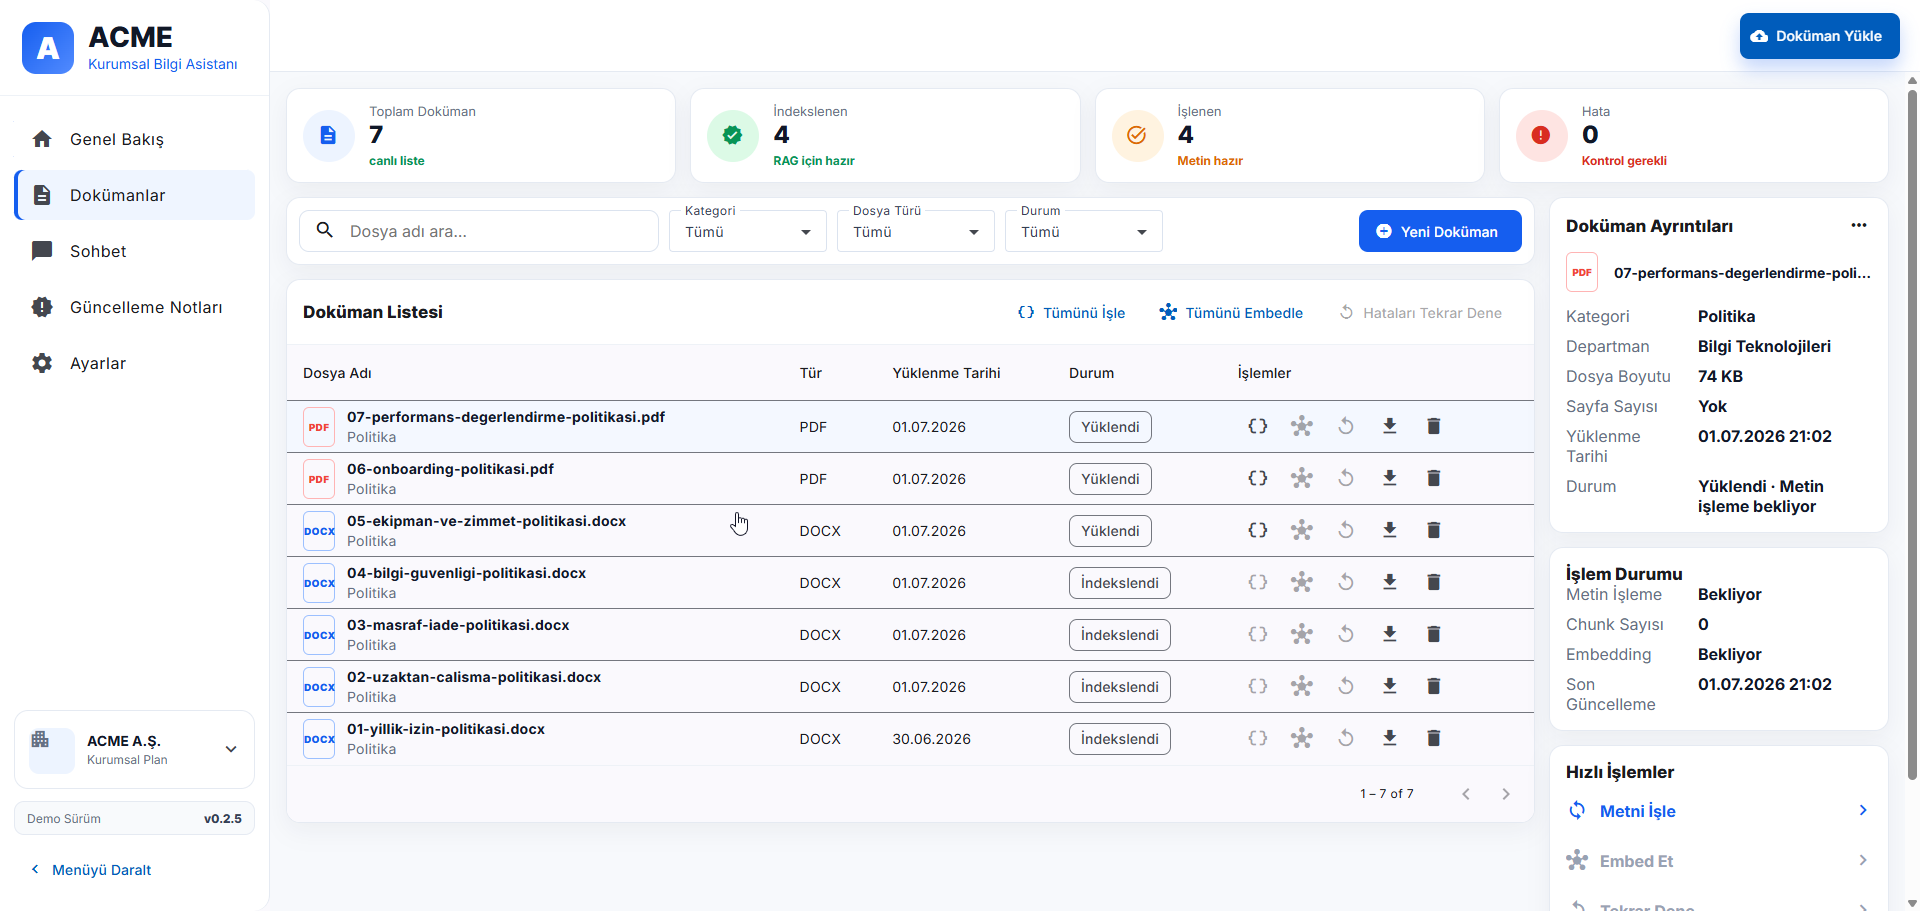
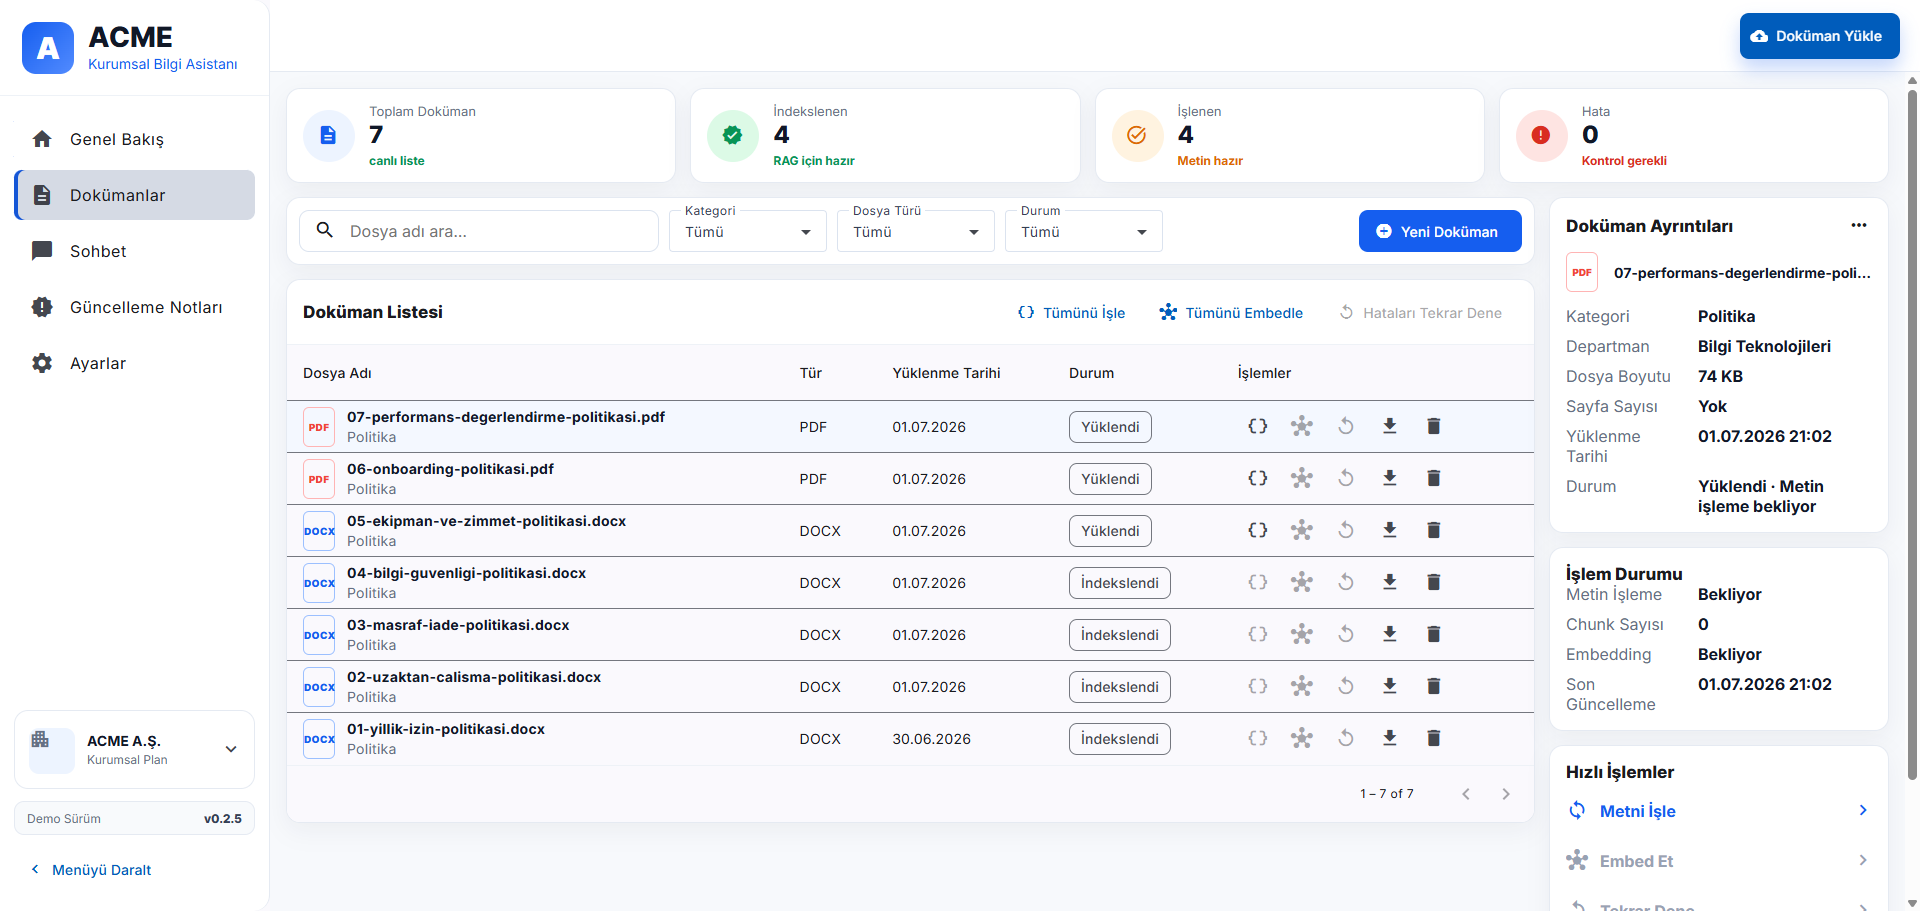
Refactor code structure for improved readability and maintainability

Changed region(s): [[0.0, 0.1844, 0.1562, 0.2459]]

diff --git a/README.md b/README.md
@@ -16,6 +16,8 @@ Bu proje .NET 10 backend, Angular 22 frontend, PostgreSQL 18 + pgvector, Ollama 
 
 <img src="assets/readme/documents.png" alt="Doküman Yönetimi" width="100%">
 
+<img src="assets/readme/documents-2.png" alt="Doküman Yönetimi" width="100%">
+
 ### Sohbet ve RAG Cevabı
 
 <img src="assets/readme/chat.png" alt="Sohbet ve RAG Cevabı" width="100%">